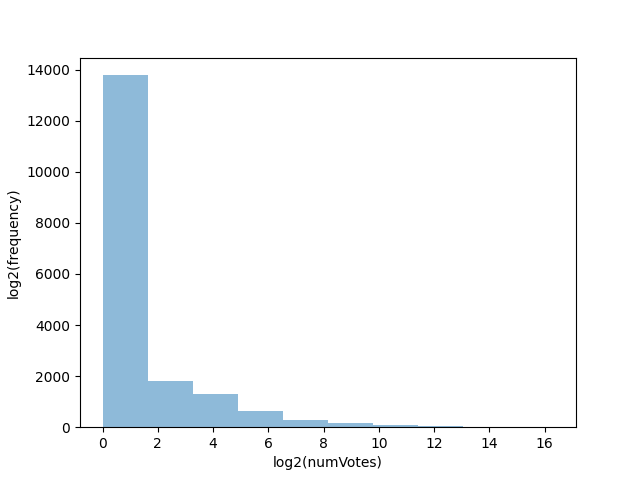
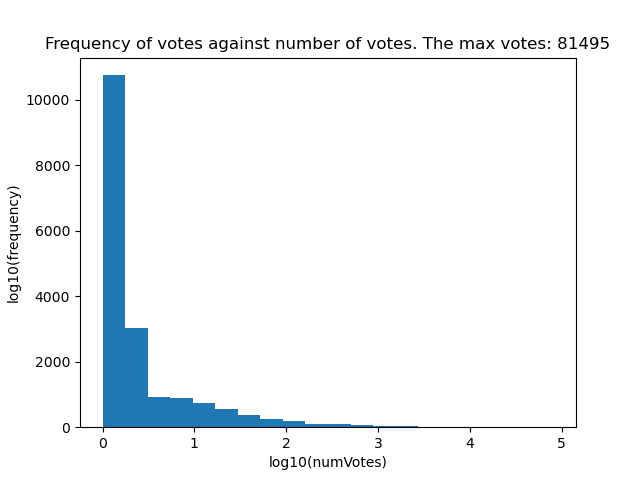
data

diff --git a/data/data_visualized.py b/data/data_visualized.py
@@ -13,15 +13,18 @@ print(df.head(5))
 duplicate_numVotes = df.pivot_table(index=['numVotes'], aggfunc='size')
 print(duplicate_numVotes)
 
+max_votes = max(duplicate_numVotes)
+
 # logscale since expecting imbalanced data
-duplicate_numVotes = np.log2(duplicate_numVotes)
+duplicate_numVotes = np.log10(duplicate_numVotes)
 
 # visualize and save
-ax = duplicate_numVotes.plot.hist(alpha=0.5)
-ax.set_xlabel("log2(numVotes)")
-ax.set_ylabel("log2(frequency)")
-
+ax = duplicate_numVotes.plot.hist(bins=20)
+ax.set_xlabel("log10(numVotes)")
+ax.set_ylabel("log10(frequency)")
+ax.set_title("Frequency of votes against number of votes. The max votes: " + str(max_votes))
 abs_save_path = os.path.join(dir_path, "numVotes_frequency.png")
 plt.savefig(abs_save_path)
+
 
 plt.show()
